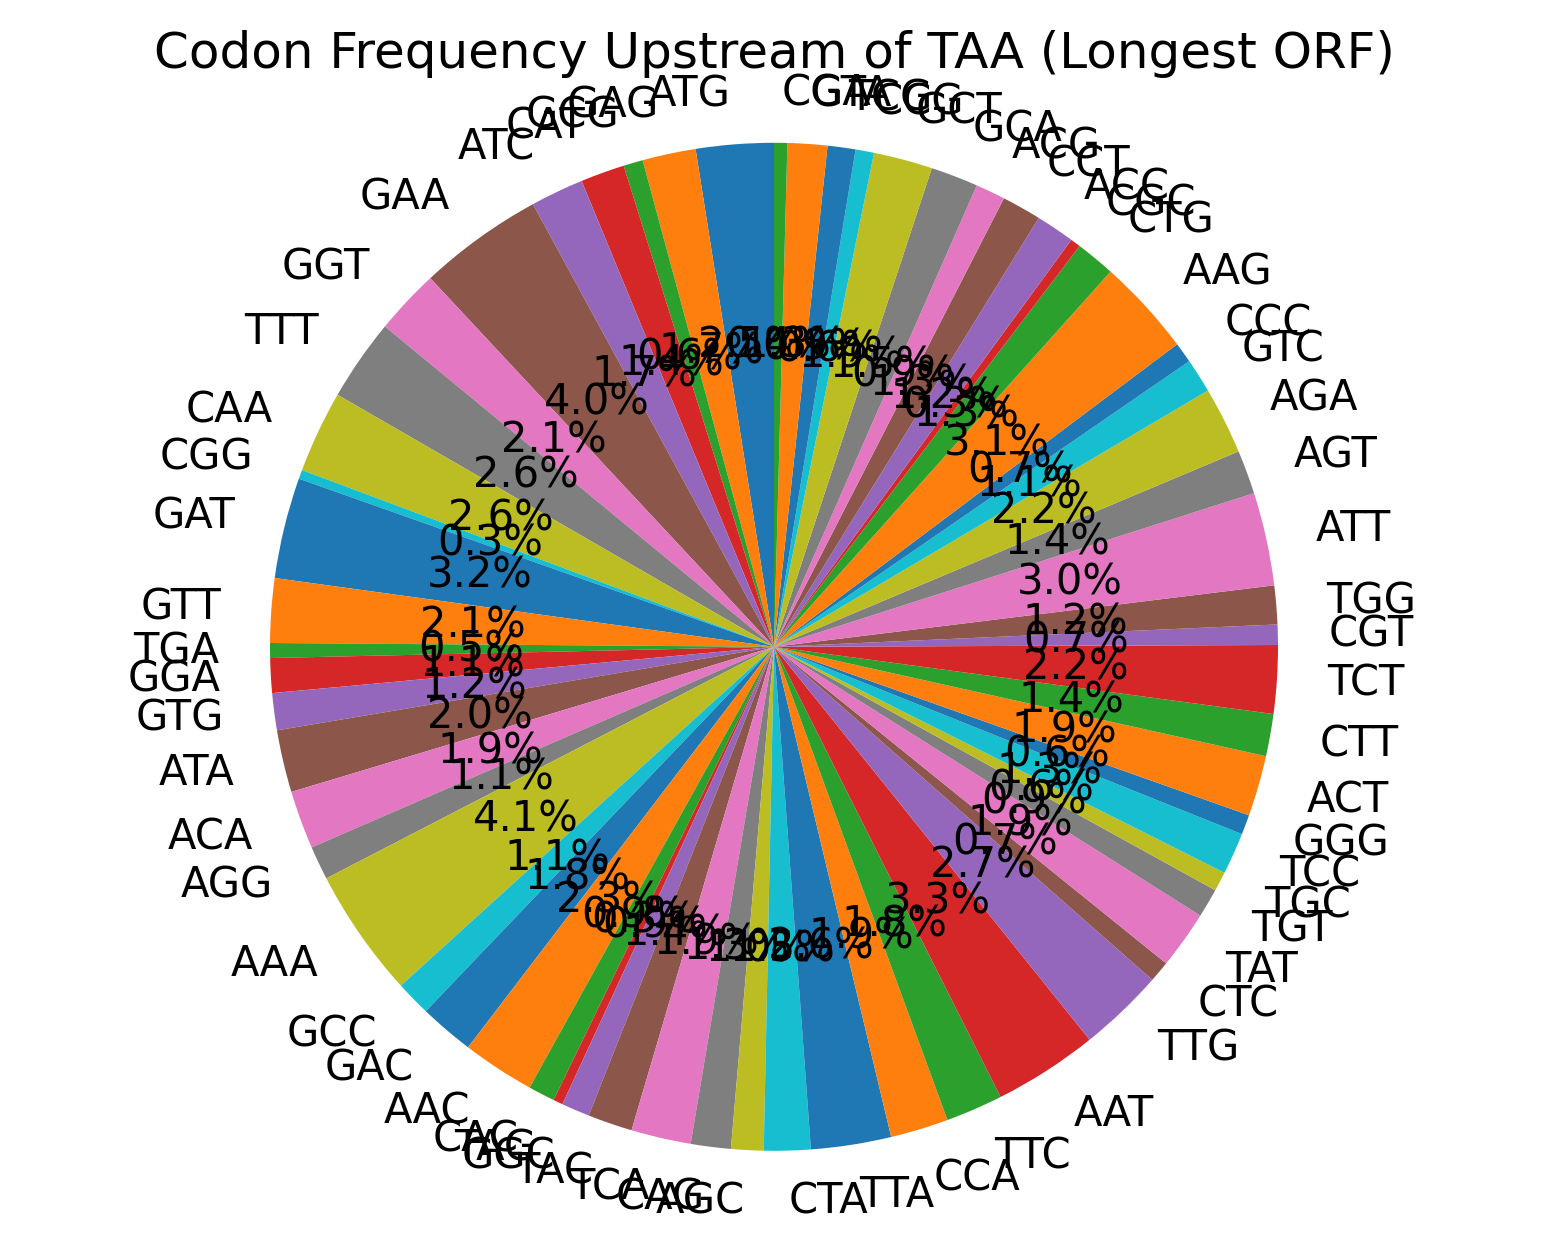
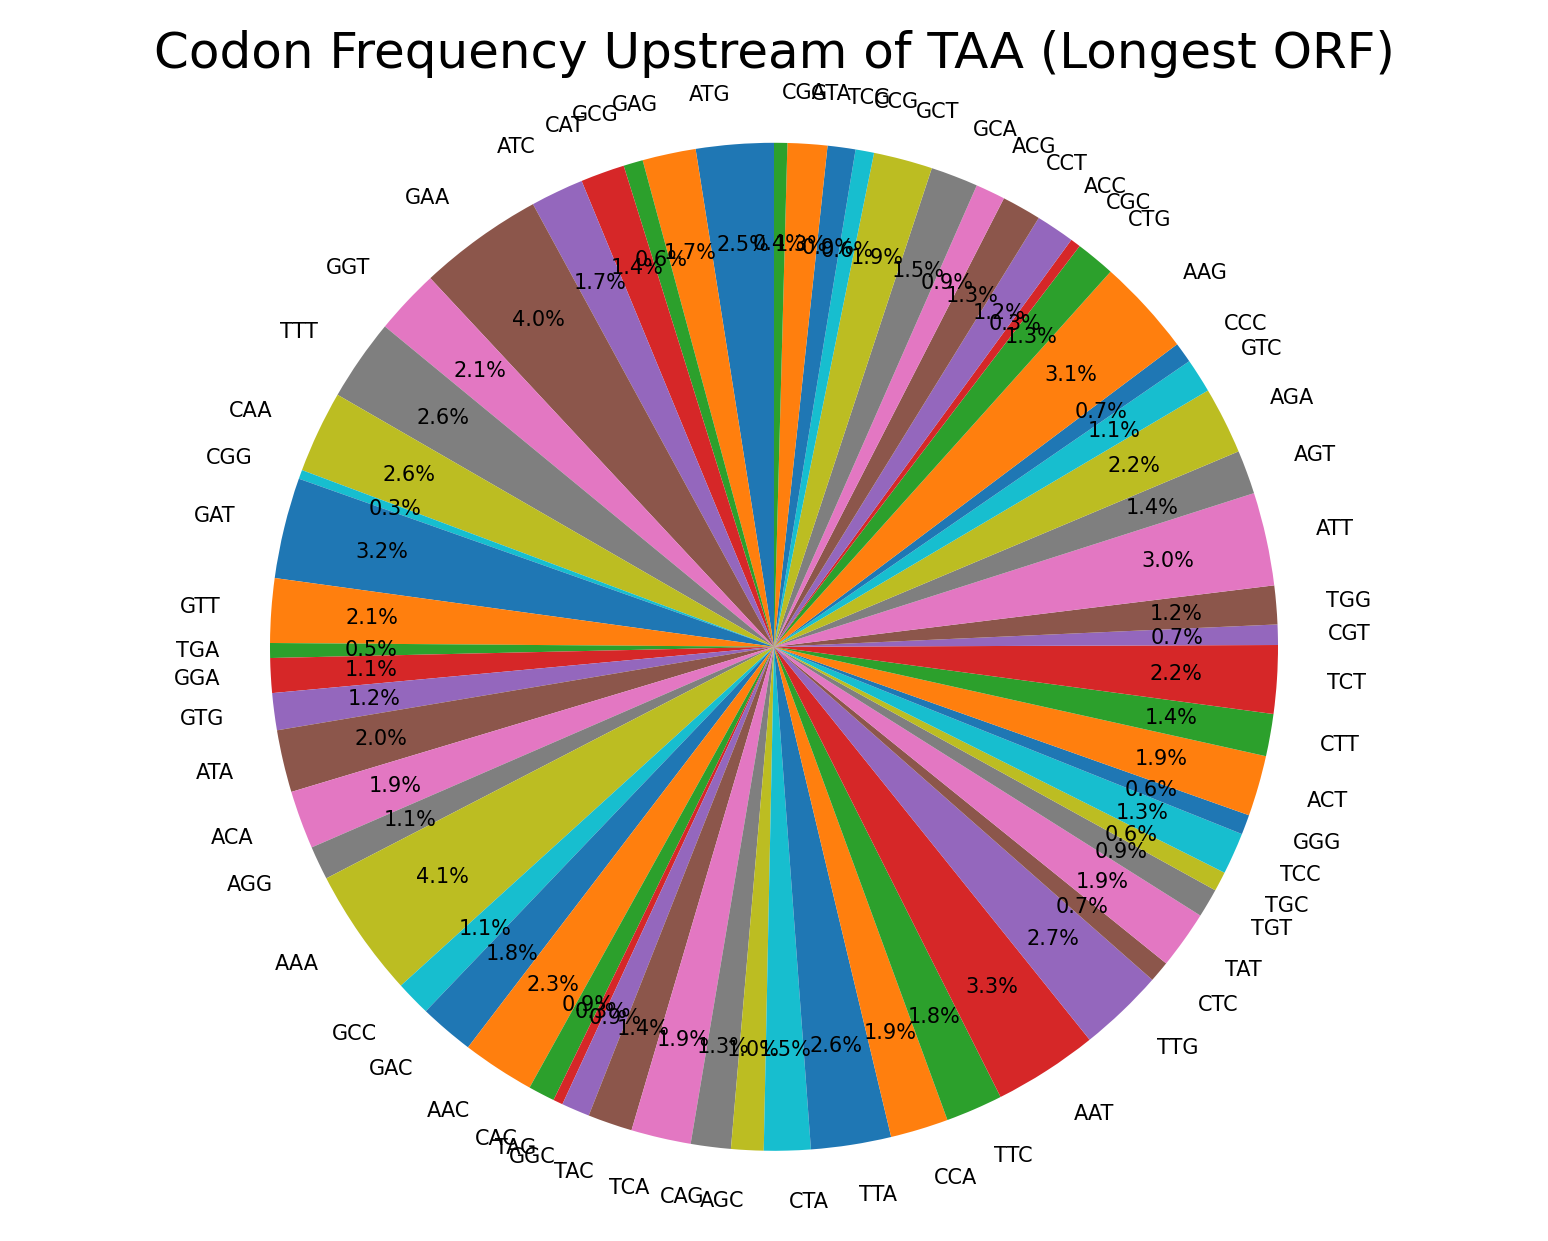
Optimize count_codons.py: resolve label overlapping in pie charts

diff --git a/Practical7/count_codons.py b/Practical7/count_codons.py
@@ -72,7 +72,7 @@ if __name__ == "__main__":
     plt.rcParams['font.sans-serif'] = ['DejaVu Sans']
     labels = list(codon_count.keys())
     sizes = list(codon_count.values())
-    plt.pie(sizes, labels=labels, autopct='%1.1f%%', startangle=90)
+    plt.pie(sizes, labels=labels, autopct='%1.1f%%', startangle=90, textprops={'fontsize': 5}, pctdistance=0.8)
     plt.title(f'Codon Frequency Upstream of {user_stop} (Longest ORF)')
     plt.axis('equal')
     # Save chart as image file